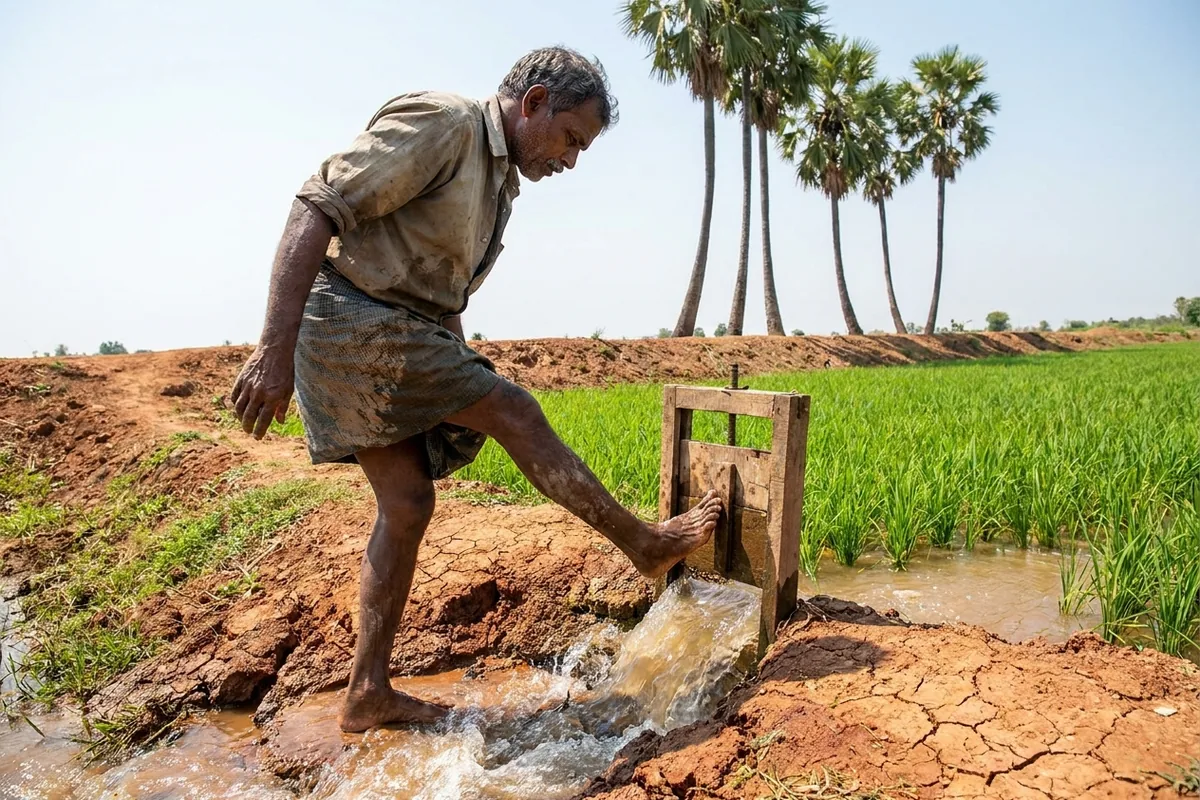
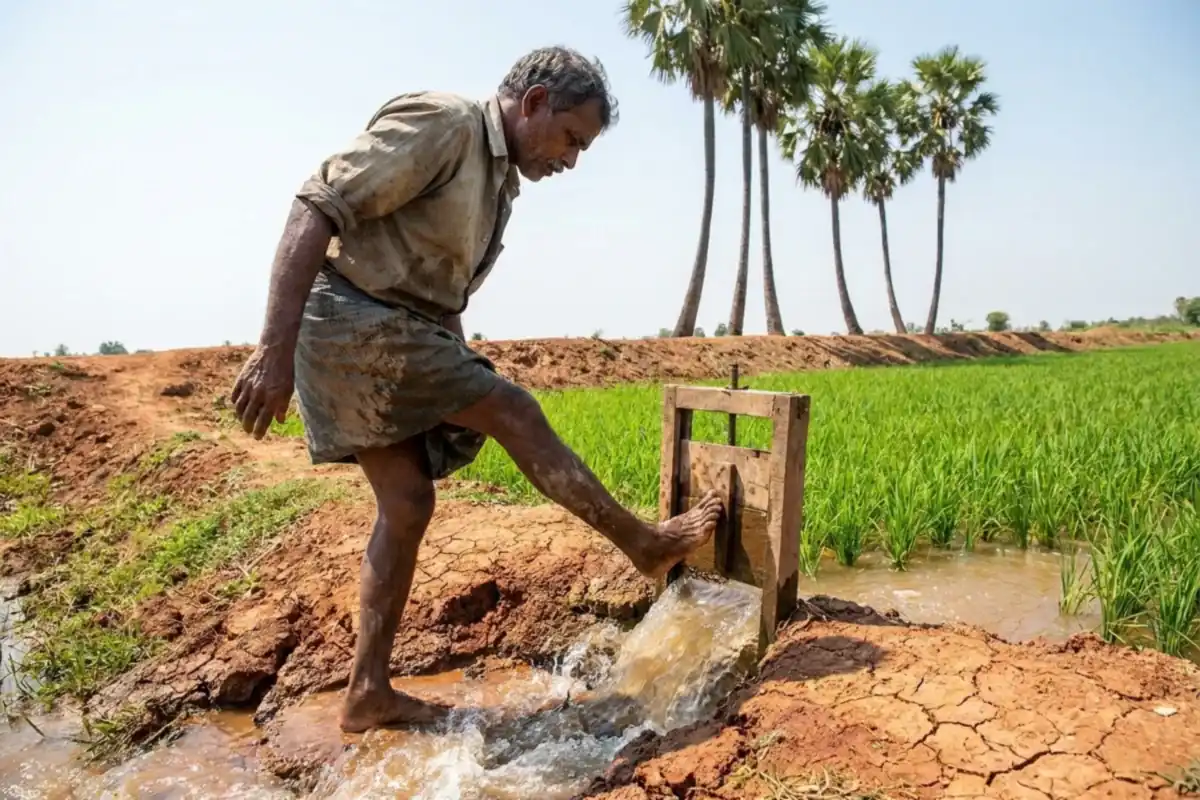
Compress rajya-yojna images under 80KB and add missing article heroes
- Re-encode 19 oversized WebP files (up to 266KB) to <=80KB, dimensions unchanged
- Add realistic 1200x675 hero.webp for the 4 rajya-yojana articles that had none
  (krishak-bandhu, odisha-cm-kisan, pm-kisan-pati-patni, state-kisan-yojana-list)
- Wire the Fig/next-image pattern into those 4 bodies and set their ogImage metadata
- Fix build-breaking JSX escaped quotes in two Fig captions (main did not compile)

diff --git a/components/articles/rajya-yojana/PmKisanPatiPatniRule.tsx b/components/articles/rajya-yojana/PmKisanPatiPatniRule.tsx
@@ -1,5 +1,41 @@
 import Link from 'next/link';
+import Image from 'next/image';
 import type { RajyaYojanaArticleMeta } from '@/lib/rajya-yojana-data';
+
+const IMG_BASE = '/images/articles/rajya-yojna/pm-kisan-pati-patni-dono-ko-milega';
+
+function Fig({
+  src,
+  alt,
+  caption,
+  width = 1200,
+  height = 675,
+  priority = false,
+}: {
+  src: string;
+  alt: string;
+  caption: string;
+  width?: number;
+  height?: number;
+  priority?: boolean;
+}) {
+  return (
+    <figure className="my-8 not-prose rounded-2xl overflow-hidden border border-gray-200 dark:border-gray-700 shadow-sm">
+      <Image
+        src={`${IMG_BASE}/${src}`}
+        alt={alt}
+        width={width}
+        height={height}
+        className="w-full h-auto object-cover"
+        sizes="(max-width: 768px) 100vw, 768px"
+        priority={priority}
+      />
+      <figcaption className="text-center text-xs text-gray-600 dark:text-gray-400 py-2 px-3 bg-gray-50 dark:bg-gray-800 border-t border-gray-200 dark:border-gray-700">
+        {caption}
+      </figcaption>
+    </figure>
+  );
+}
 
 /**
  * STUB — short placeholder body. Expand with verified figures, dates and
@@ -9,6 +45,13 @@ export default function PmKisanPatiPatniRule({ article }: { article: RajyaYojana
   return (
     <article className="max-w-3xl mx-auto px-4 py-8 prose prose-lg dark:prose-invert">
       <h1 className="text-3xl md:text-4xl font-bold mb-4 leading-tight">{article.title}</h1>
+
+      <Fig
+        src="hero.webp"
+        alt="Buzurg kisan pati-patni apne ghar ke bahar ID card aur bank passbook ke saath baithe hain"
+        caption="PM Kisan ka family rule — ek parivar mein kis-kis ko paisa milta hai"
+        priority
+      />
 
       <p>PM Kisan mein pati-patni dono ko paisa milta hai ya nahi — poori detail jald.</p>
 

diff --git a/components/articles/rajya-yojana/OdishaCmKisanStatusCheck.tsx b/components/articles/rajya-yojana/OdishaCmKisanStatusCheck.tsx
@@ -1,5 +1,41 @@
 import Link from 'next/link';
+import Image from 'next/image';
 import type { RajyaYojanaArticleMeta } from '@/lib/rajya-yojana-data';
+
+const IMG_BASE = '/images/articles/rajya-yojna/odisha-cm-kisan-status-check-2026';
+
+function Fig({
+  src,
+  alt,
+  caption,
+  width = 1200,
+  height = 675,
+  priority = false,
+}: {
+  src: string;
+  alt: string;
+  caption: string;
+  width?: number;
+  height?: number;
+  priority?: boolean;
+}) {
+  return (
+    <figure className="my-8 not-prose rounded-2xl overflow-hidden border border-gray-200 dark:border-gray-700 shadow-sm">
+      <Image
+        src={`${IMG_BASE}/${src}`}
+        alt={alt}
+        width={width}
+        height={height}
+        className="w-full h-auto object-cover"
+        sizes="(max-width: 768px) 100vw, 768px"
+        priority={priority}
+      />
+      <figcaption className="text-center text-xs text-gray-600 dark:text-gray-400 py-2 px-3 bg-gray-50 dark:bg-gray-800 border-t border-gray-200 dark:border-gray-700">
+        {caption}
+      </figcaption>
+    </figure>
+  );
+}
 
 /**
  * STUB — short placeholder body. Expand with verified figures, dates and
@@ -9,6 +45,13 @@ export default function OdishaCmKisanStatusCheck({ article }: { article: RajyaYo
   return (
     <article className="max-w-3xl mx-auto px-4 py-8 prose prose-lg dark:prose-invert">
       <h1 className="text-3xl md:text-4xl font-bold mb-4 leading-tight">{article.title}</h1>
+
+      <Fig
+        src="hero.webp"
+        alt="Odisha ke chhote kisan aur bhoomiheen khet mazdoor apne khet ke paas"
+        caption="Odisha CM Kisan (purani KALIA) — chhote kisan aur bhoomiheen mazdooron ke liye"
+        priority
+      />
 
       <p>Odisha CM Kisan (purani KALIA) ka status aur beneficiary list — poori detail jald.</p>
 

diff --git a/components/articles/rajya-yojana/KrishakBandhuStatusCheck.tsx b/components/articles/rajya-yojana/KrishakBandhuStatusCheck.tsx
@@ -1,5 +1,41 @@
 import Link from 'next/link';
+import Image from 'next/image';
 import type { RajyaYojanaArticleMeta } from '@/lib/rajya-yojana-data';
+
+const IMG_BASE = '/images/articles/rajya-yojna/krishak-bandhu-status-check-2026';
+
+function Fig({
+  src,
+  alt,
+  caption,
+  width = 1200,
+  height = 675,
+  priority = false,
+}: {
+  src: string;
+  alt: string;
+  caption: string;
+  width?: number;
+  height?: number;
+  priority?: boolean;
+}) {
+  return (
+    <figure className="my-8 not-prose rounded-2xl overflow-hidden border border-gray-200 dark:border-gray-700 shadow-sm">
+      <Image
+        src={`${IMG_BASE}/${src}`}
+        alt={alt}
+        width={width}
+        height={height}
+        className="w-full h-auto object-cover"
+        sizes="(max-width: 768px) 100vw, 768px"
+        priority={priority}
+      />
+      <figcaption className="text-center text-xs text-gray-600 dark:text-gray-400 py-2 px-3 bg-gray-50 dark:bg-gray-800 border-t border-gray-200 dark:border-gray-700">
+        {caption}
+      </figcaption>
+    </figure>
+  );
+}
 
 /**
  * STUB — short placeholder body. Expand with verified figures, dates and
@@ -9,6 +45,13 @@ export default function KrishakBandhuStatusCheck({ article }: { article: RajyaYo
   return (
     <article className="max-w-3xl mx-auto px-4 py-8 prose prose-lg dark:prose-invert">
       <h1 className="text-3xl md:text-4xl font-bold mb-4 leading-tight">{article.title}</h1>
+
+      <Fig
+        src="hero.webp"
+        alt="West Bengal ka kisan apne dhaan ke khet ke paas Voter ID card ke saath khada hai"
+        caption="Krishak Bandhu — West Bengal ke kisanon ki income-support yojana"
+        priority
+      />
 
       <p>West Bengal Krishak Bandhu ka Voter ID se status check — poori detail jald.</p>
 

diff --git a/components/articles/rajya-yojana/StateKisanYojanaHub.tsx b/components/articles/rajya-yojana/StateKisanYojanaHub.tsx
@@ -1,5 +1,41 @@
 import Link from 'next/link';
+import Image from 'next/image';
 import type { RajyaYojanaArticleMeta } from '@/lib/rajya-yojana-data';
+
+const IMG_BASE = '/images/articles/rajya-yojna/state-kisan-yojana-list-all-states-2026';
+
+function Fig({
+  src,
+  alt,
+  caption,
+  width = 1200,
+  height = 675,
+  priority = false,
+}: {
+  src: string;
+  alt: string;
+  caption: string;
+  width?: number;
+  height?: number;
+  priority?: boolean;
+}) {
+  return (
+    <figure className="my-8 not-prose rounded-2xl overflow-hidden border border-gray-200 dark:border-gray-700 shadow-sm">
+      <Image
+        src={`${IMG_BASE}/${src}`}
+        alt={alt}
+        width={width}
+        height={height}
+        className="w-full h-auto object-cover"
+        sizes="(max-width: 768px) 100vw, 768px"
+        priority={priority}
+      />
+      <figcaption className="text-center text-xs text-gray-600 dark:text-gray-400 py-2 px-3 bg-gray-50 dark:bg-gray-800 border-t border-gray-200 dark:border-gray-700">
+        {caption}
+      </figcaption>
+    </figure>
+  );
+}
 
 /**
  * STUB — short placeholder body. Expand with verified figures, dates and
@@ -9,6 +45,13 @@ export default function StateKisanYojanaHub({ article }: { article: RajyaYojanaA
   return (
     <article className="max-w-3xl mx-auto px-4 py-8 prose prose-lg dark:prose-invert">
       <h1 className="text-3xl md:text-4xl font-bold mb-4 leading-tight">{article.title}</h1>
+
+      <Fig
+        src="hero.webp"
+        alt="Alag-alag rajyon ke kisan ek khet mein saath khade hain"
+        caption="Sabhi rajyon ki kisan yojana ek jagah — naam, raqam aur official portal"
+        priority
+      />
 
       <p>Har rajya ki kisan yojana, raqam aur official portal ek jagah — poori detail jald.</p>
 

diff --git a/lib/rajya-yojana-data.ts b/lib/rajya-yojana-data.ts
@@ -181,6 +181,7 @@ export const RAJYA_YOJANA_ARTICLES: readonly RajyaYojanaArticleMeta[] = [
     published: '2026-08-03T09:00:00+05:30',
     modified: '2026-08-03T09:00:00+05:30',
     readTime: '10 min read',
+    ogImage: '/images/articles/rajya-yojna/krishak-bandhu-status-check-2026/hero.webp',
     relatedPaths: ['/articles/PmKisanMasterGuide2026', '/articles/PmKisanCorrectionForm2026'],
   },
   {
@@ -204,6 +205,7 @@ export const RAJYA_YOJANA_ARTICLES: readonly RajyaYojanaArticleMeta[] = [
     published: '2026-08-03T09:00:00+05:30',
     modified: '2026-08-03T09:00:00+05:30',
     readTime: '10 min read',
+    ogImage: '/images/articles/rajya-yojna/odisha-cm-kisan-status-check-2026/hero.webp',
     relatedPaths: ['/articles/PmKisanMasterGuide2026', '/articles/PmKisanBeneficiaryList2026'],
   },
   {
@@ -227,6 +229,7 @@ export const RAJYA_YOJANA_ARTICLES: readonly RajyaYojanaArticleMeta[] = [
     published: '2026-08-03T09:00:00+05:30',
     modified: '2026-08-03T09:00:00+05:30',
     readTime: '9 min read',
+    ogImage: '/images/articles/rajya-yojna/pm-kisan-pati-patni-dono-ko-milega/hero.webp',
     relatedPaths: [
       '/articles/PmKisanVoluntarySurrenderGuide',
       '/articles/PmKisanRejectedStatusReApplyGuide',
@@ -252,6 +255,7 @@ export const RAJYA_YOJANA_ARTICLES: readonly RajyaYojanaArticleMeta[] = [
     published: '2026-08-03T09:00:00+05:30',
     modified: '2026-08-03T09:00:00+05:30',
     readTime: '12 min read',
+    ogImage: '/images/articles/rajya-yojna/state-kisan-yojana-list-all-states-2026/hero.webp',
     relatedPaths: ['/articles/PmKisanMasterGuide2026'],
   },
 ];

diff --git a/components/articles/rajya-yojana/MpKisanKalyanYojanaKist.tsx b/components/articles/rajya-yojana/MpKisanKalyanYojanaKist.tsx
@@ -191,7 +191,7 @@ export default function MPCMKisanKalyanYojanaKistStatus() {
       <Fig
         src="bank-npci-mapping.webp"
         alt="Kisan bank branch mein passbook dikhakar DBT aur NPCI Aadhaar mapping check karwa raha hai"
-        caption="\"Payment Successful\" par paisa nahi aaya — sabse pehle bank mein NPCI mapping check karwao"
+        caption={'"Payment Successful" par paisa nahi aaya — sabse pehle bank mein NPCI mapping check karwao'}
       />
 
       <h3>1. Bank Account aur NPCI Mapping Check Karein</h3>

diff --git a/components/articles/rajya-yojana/RajasthanKisanSammanNidhi9000.tsx b/components/articles/rajya-yojana/RajasthanKisanSammanNidhi9000.tsx
@@ -302,7 +302,7 @@ export default function RajasthanKisanSammanNidhi9000() {
         <Fig
           src="bank-visit.webp"
           alt="Kisan bank branch mein passbook lekar DBT payment aur NPCI mapping check karwa raha hai"
-          caption="Portal par \"Successful\" dikhe par paisa na aaya ho — bank branch mein NPCI mapping check karwao"
+          caption={'Portal par "Successful" dikhe par paisa na aaya ho — bank branch mein NPCI mapping check karwao'}
         />
 
         <p>

diff --git a/CLAUDE.md b/CLAUDE.md
@@ -309,3 +309,21 @@ chip, and `numberOfItems: 59` (37 + 13 + 9).
   show nahi ho rahe", curl the URL first — if it 200s, the bug is in the listing/nav layer.
 - **Any new cluster on its own path segment must set an explicit `href`.** Slug-based path inference
   in `ArticlesClient`/`app/articles/page.tsx` silently points new clusters at `/articles/<slug>`.
+
+## rajya-yojna image weight + missing heroes — 2026-08-04 (branch `fix/rajya-yojna-image-weight-and-missing-heroes`)
+- **Budget: every image under `public/images/articles/rajya-yojna/` must be WebP ≤ 80 KB.** 19 of 25
+  existing files were over (worst: 266 KB). Fixed by re-encoding at reduced quality with dimensions
+  preserved (1200x675 hero / 1200x800 body). 16 fit on quality alone (q 50-78); three
+  high-detail crop photos (wheat-harvest-mp, vidarbha-cotton-farmer, paddy-per-acre-farming) needed a
+  0.7-1.0px Gaussian pre-blur before q46-56 would fit — noise is what blows up WebP size.
+- **The 4 stub articles had zero images.** Added one generated realistic 1200x675 `hero.webp` each
+  (krishak-bandhu, odisha-cm-kisan, pm-kisan-pati-patni, state-kisan-yojana-list), wired the same
+  `Fig` helper + `next/image` the live bodies use, and set `ogImage` in `lib/rajya-yojana-data.ts`.
+  The 5 live articles had NO broken refs — every referenced file existed on disk.
+- **Build on `main` was broken** by PRs #37-#41: `caption="... \"quoted\" ..."` — backslash-escaped
+  quotes are not valid inside a JSX string attribute (TS1127 / "Expected '</'"). Two files
+  (MpKisanKalyanYojanaKist, RajasthanKisanSammanNidhi9000). Fixed to `caption={'... "quoted" ...'}`.
+  **Never use `\"` in a JSX attribute — switch to a braced JS string.**
+- Verified: `npx tsc --noEmit` clean, `env -u NODE_OPTIONS npx next build --webpack` succeeded, and
+  each of the 4 prerendered `.next/server/app/rajya-yojana/<slug>.html` has exactly one `<h1>` plus
+  its hero ref.
